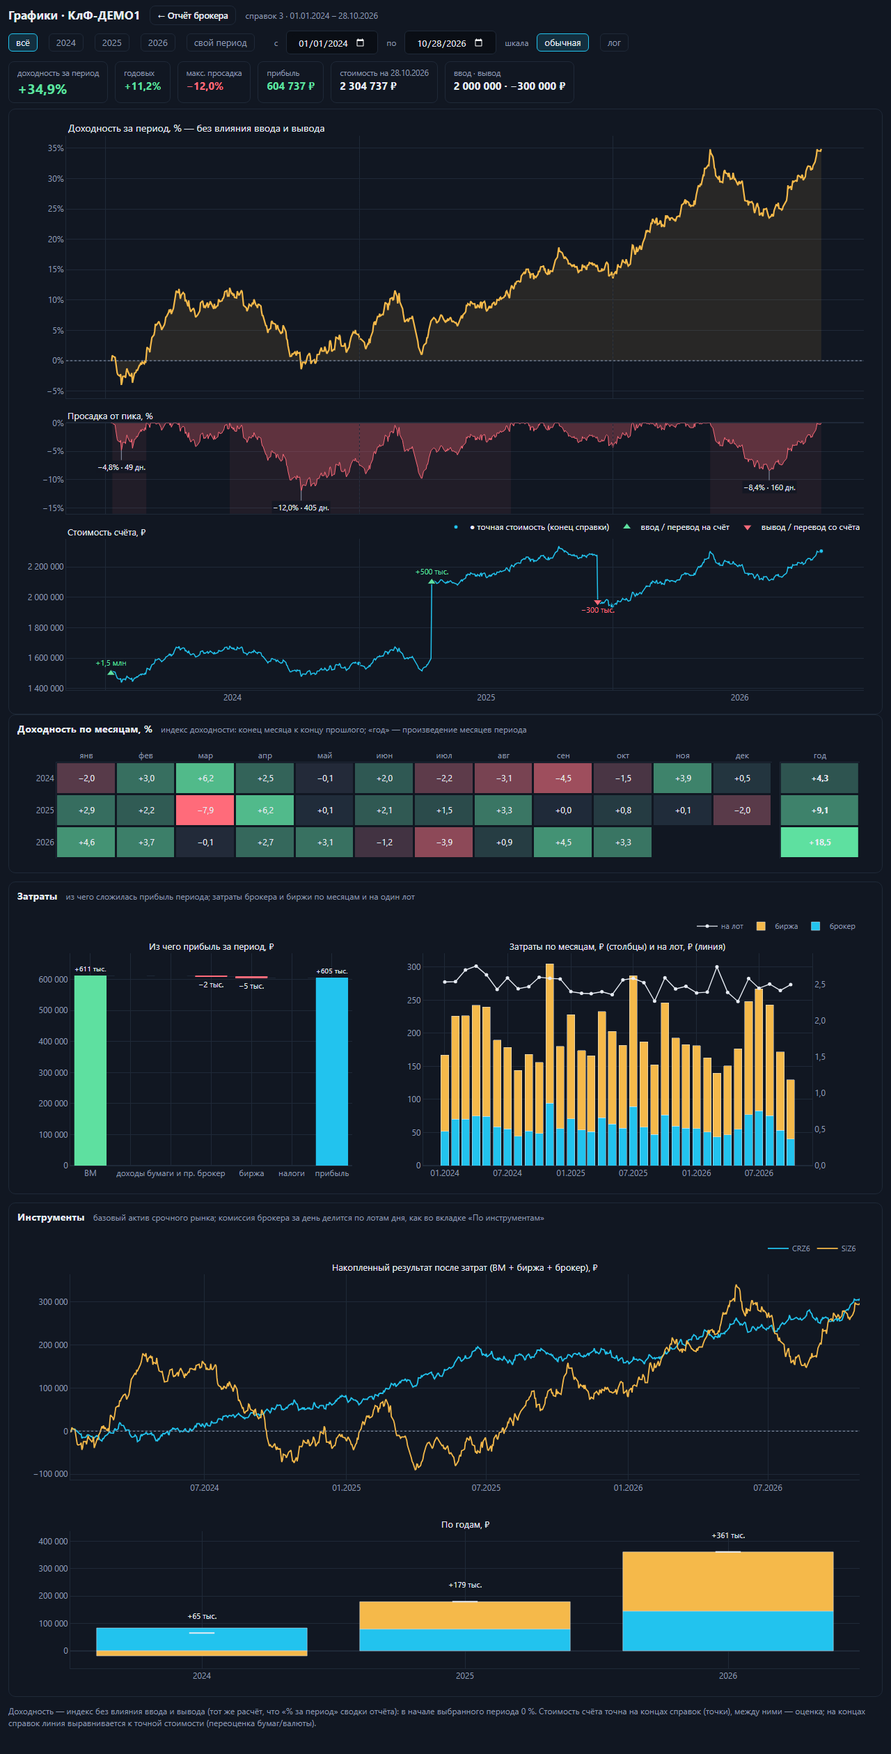
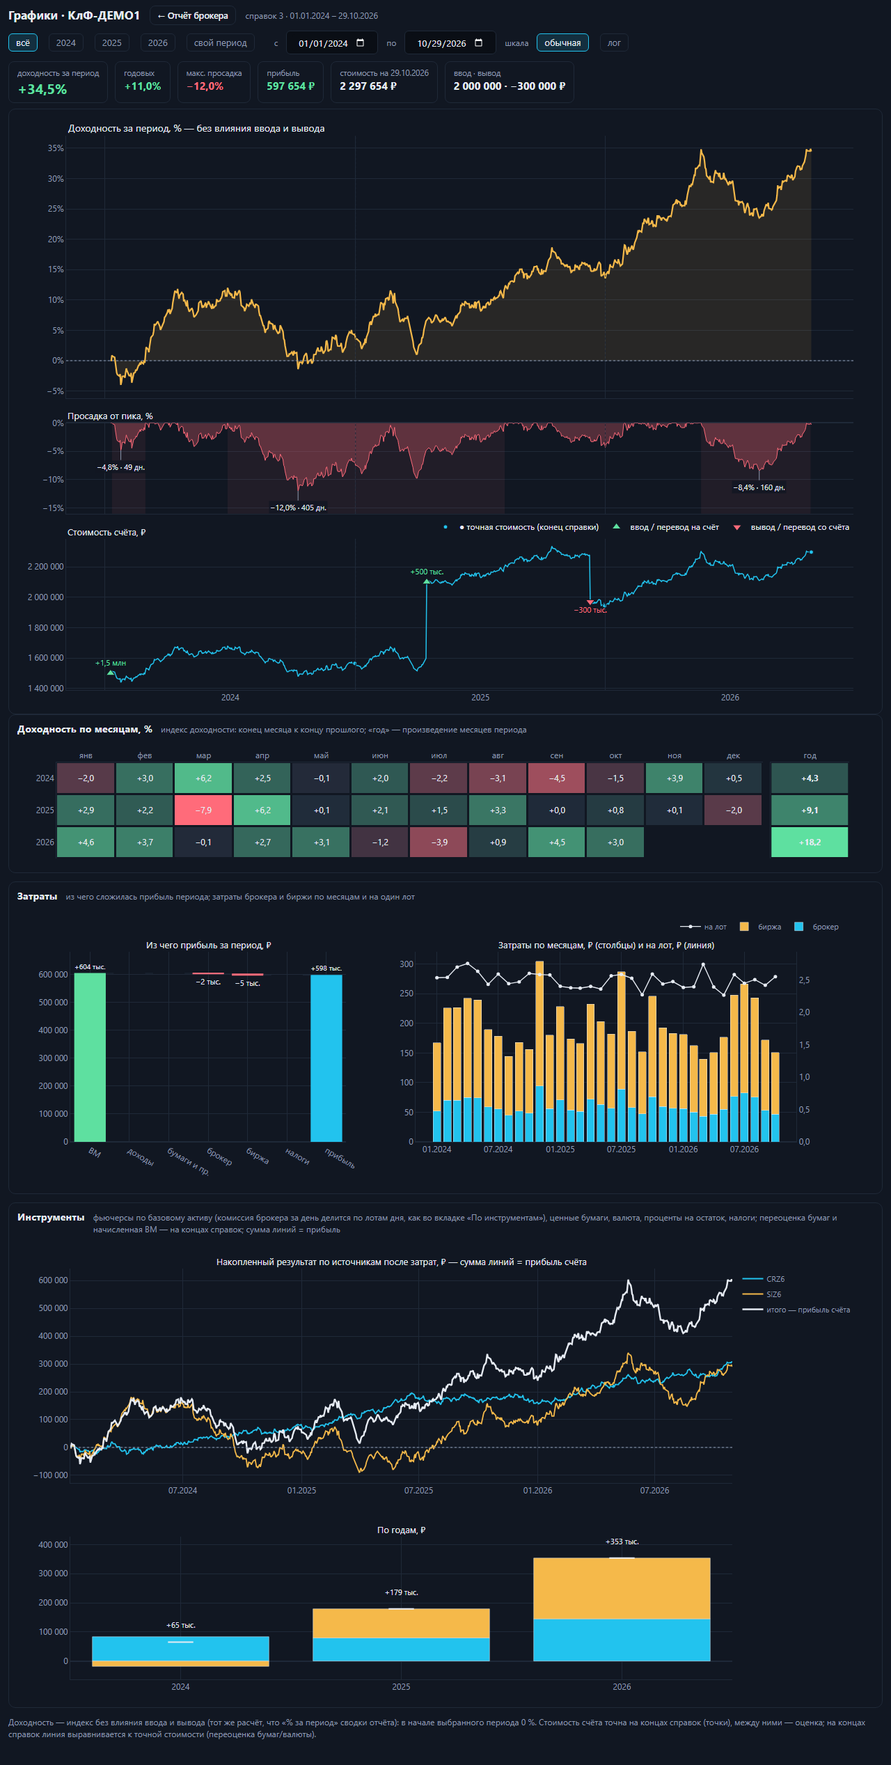
1.0.6: «Графики» → «Инструменты» по источникам (фьючерсы по базовому активу, ценные бумаги, валюта, проценты на остаток, ВМ к оплате, налоги, прочие расходы; итого = прибыль счёта); легенда «Инструментов» столбиком справа, авто-наклон подписей «Из чего прибыль» на узком окне; тест разбивки; скриншот

diff --git a/brep/brep_charts.py b/brep/brep_charts.py
@@ -318,36 +318,50 @@ def fig_costs(acc, s: dict, theme: str = "graphite") -> go.Figure:
     fig.update_yaxes(tickformat=",.0f", row=1, col=2, secondary_y=False)
     fig.update_yaxes(tickformat=",.1f", showgrid=False, rangemode="tozero", tickmode="auto", nticks=6, row=1, col=2,
                      secondary_y=True)
-    fig.update_xaxes(tickangle=0, row=1, col=1)
+    fig.update_xaxes(tickangle=None, row=1, col=1)   # авто: наклон только когда подписи каскада не помещаются (слипались на узком окне)
     fig.update_xaxes(tickformat="%m.%Y", row=1, col=2)
     fig.update_layout(legend=dict(x=1, xanchor="right", y=1.08), margin=dict(t=48))
     return fig
 
 
-def ins_series(acc, s: dict, top: int = 6) -> dict:
-    """Накопленный результат базовых активов после затрат (ВМ + биржа + брокер) по дням периода; крупнейшие top,
-    остальные — «прочие». Корзины столбцов — годы (период > 1 года) или месяцы."""
-    a, b = s["dates"][0], s["dates"][-1]
-    daily = acc.ins_days(a, b, True)
+OTHER_FUT = "прочие фьючерсы"
+TOTAL = "итого — прибыль счёта"
+PART_COLORS = {"Ценные бумаги": "#60a5fa", "Валюта": "#2dd4bf", "Проценты на остаток": "#e879f9",
+               "ВМ к оплате": "#a8a29e", "Налоги": "#f87171", "Прочие расходы": "#78716c"}
+
+
+def ins_series(acc, s: dict, top: int = 5) -> dict:
+    """Накопленный результат по источникам за период:
+    фьючерсы по базовому активу после затрат (крупнейшие top, остальные — «прочие фьючерсы»), ценные бумаги, валюта,
+    проценты на остаток, ВМ к оплате, налоги, прочие расходы (Account.parts_days). Сумма линий = прибыль периода
+    (= плашка «Прибыль»). Корзины столбцов — годы (период > 1 года) или месяцы."""
+    from brep.brep_model import PARTS_FIXED
+    parts = acc.parts_days()
+    dates = s["dates"]
     tot = {}
-    for cv in daily.values():
-        for k, v in cv.items():
-            tot[k] = tot.get(k, 0.0) + sum(v)
-    keys = sorted(tot, key=lambda k: -abs(tot[k]))
-    show = [k for k in keys[:top] if k != "без сделок в день списания"]
-    name = lambda k: k if k in show else OTHER_INS  # noqa: E731
-    names = show + ([OTHER_INS] if any(name(k) == OTHER_INS for k in keys) else [])
-    by_year = len({d[:4] for d in s["dates"]}) > 1
-    cum = {n: [] for n in names}
+    for d in dates:
+        for k, v in parts.get(d, {}).items():
+            tot[k] = tot.get(k, 0.0) + v
+    fut = sorted((k for k in tot if k not in PARTS_FIXED), key=lambda k: -abs(tot[k]))
+    show = [k for k in fut[:top] if k != "без сделок в день списания"]
+    used = {k for d in dates for k, v in parts.get(d, {}).items() if abs(v) >= 0.5}
+    name = lambda k: k if k in show or k in PARTS_FIXED else OTHER_FUT  # noqa: E731
+    names = show + ([OTHER_FUT] if any(name(k) == OTHER_FUT for k in fut if k in used) else [])         + [k for k in PARTS_FIXED if k in used]
+    by_year = len({d[:4] for d in dates}) > 1
+    cum = {n: [] for n in names + [TOTAL]}
     run = {n: 0.0 for n in names}
     buckets = {}
-    for d in s["dates"]:
-        for k, v in daily.get(d, {}).items():
-            run[name(k)] += sum(v)
-            bk = d[:4] if by_year else f"{MON_RU[int(d[5:7]) - 1]} {d[:4]}"
-            buckets.setdefault(bk, {n: 0.0 for n in names})[name(k)] += sum(v)
+    for d in dates:
+        bk = d[:4] if by_year else f"{MON_RU[int(d[5:7]) - 1]} {d[:4]}"
+        bb = buckets.setdefault(bk, {n: 0.0 for n in names})
+        for k, v in parts.get(d, {}).items():
+            n = name(k)
+            if n in run:
+                run[n] += v
+                bb[n] += v
         for n in names:
             cum[n].append(run[n])
+        cum[TOTAL].append(sum(run.values()))
     return {"names": names, "cum": cum, "buckets": buckets, "by_year": by_year, "total": tot}
 
 
@@ -359,17 +373,21 @@ def fig_ins(acc, s: dict, theme: str = "graphite") -> go.Figure:
     if not x["names"]:
         return _layout(go.Figure(), c, 120)
     fig = make_subplots(rows=2, cols=1, row_heights=[0.6, 0.4], vertical_spacing=0.13,
-                        subplot_titles=("Накопленный результат после затрат (ВМ + биржа + брокер), ₽",
+                        subplot_titles=("Накопленный результат по источникам после затрат, ₽ — сумма линий = прибыль счёта",
                                         "По годам, ₽" if x["by_year"] else "По месяцам, ₽"))
     bk = list(x["buckets"])
     for i, n in enumerate(x["names"]):
-        col = c["mut"] if n == OTHER_INS else PALETTE[i % len(PALETTE)]
-        fig.add_trace(go.Scatter(x=s["dates"], y=x["cum"][n], name=n, legendgroup=n, mode="lines", line=dict(color=col, width=1.8),
+        fixed = n in PART_COLORS
+        col = PART_COLORS[n] if fixed else c["mut"] if n == OTHER_FUT else PALETTE[i % len(PALETTE)]
+        fig.add_trace(go.Scatter(x=s["dates"], y=x["cum"][n], name=n, legendgroup=n, mode="lines",
+                                 line=dict(color=col, width=1.8, dash="dash" if fixed else None),
                                  hovertemplate=n + " %{y:,.0f} ₽<extra></extra>"), 1, 1)
         fig.add_trace(go.Bar(x=bk, y=[x["buckets"][b][n] for b in bk], name=n, legendgroup=n, showlegend=False, marker_color=col,
                              hovertemplate=n + " %{x}: %{y:,.0f} ₽<extra></extra>"), 2, 1)
+    fig.add_trace(go.Scatter(x=s["dates"], y=x["cum"][TOTAL], name=TOTAL, legendgroup=TOTAL, mode="lines",
+                             line=dict(color=c["txt"], width=2.4), hovertemplate="итого %{y:,.0f} ₽<extra></extra>"), 1, 1)
     tots = [sum(x["buckets"][b].values()) for b in bk]
-    fig.add_trace(go.Scatter(x=bk, y=tots, mode="markers+text", name="итого", showlegend=False,
+    fig.add_trace(go.Scatter(x=bk, y=tots, mode="markers+text", name="итого", showlegend=False, legendgroup=TOTAL,
                              marker=dict(symbol="line-ew", size=26, line=dict(color=c["txt"], width=2)),
                              text=[short(v) if abs(v) >= 1000 else "" for v in tots], textposition="top center",
                              textfont=dict(color=c["txt"], size=11), hovertemplate="итого %{x}: %{y:,.0f} ₽<extra></extra>"), 2, 1)
@@ -383,7 +401,10 @@ def fig_ins(acc, s: dict, theme: str = "graphite") -> go.Figure:
     fig.update_yaxes(tickformat=",.0f")
     fig.update_xaxes(tickformat="%m.%Y", row=1, col=1)
     fig.update_xaxes(type="category", row=2, col=1)
-    fig.update_layout(legend=dict(x=1, xanchor="right", y=1.04), margin=dict(t=48))
+    # легенда столбиком справа: горизонтальная при 10+ линиях переносилась в 2–3 ряда и легла на
+    # заголовок подграфика — Plotly недодал верхнее поле; справа ей не с чем пересечься при любой ширине и масштабе
+    fig.update_layout(legend=dict(orientation="v", x=1.01, xanchor="left", y=1, yanchor="top", tracegroupgap=3),
+                      margin=dict(t=40))
     return fig
 
 
@@ -447,8 +468,9 @@ def mount(server, url_base: str, account: str, store, report_url: str):
             ("Доходность по месяцам, %", "индекс доходности: конец месяца к концу прошлого; «год» — произведение месяцев периода",
              "c-months"),
             ("Затраты", "из чего сложилась прибыль периода; затраты брокера и биржи по месяцам и на один лот", "c-costs"),
-            ("Инструменты", "базовый актив срочного рынка; комиссия брокера за день делится по лотам дня, как во вкладке "
-                            "«По инструментам»", "c-ins"))],
+            ("Инструменты", "фьючерсы по базовому активу (комиссия брокера за день делится по лотам дня, как во "
+                            "вкладке «По инструментам»), ценные бумаги, валюта, проценты на остаток, налоги; переоценка "
+                            "бумаг и начисленная ВМ — на концах справок; сумма линий = прибыль", "c-ins"))],
         html.P("Доходность — индекс без влияния ввода и вывода (тот же расчёт, что «% за период» сводки отчёта): в начале "
                "выбранного периода 0 %. Стоимость счёта точна на концах справок (точки), между ними — оценка; на концах "
                "справок линия выравнивается к точной стоимости (переоценка бумаг/валюты).", className="hint"),

diff --git a/brep/brep_model.py b/brep/brep_model.py
@@ -634,6 +634,75 @@ Account._papers_init = _papers_init
 Account.securities = _securities
 
 
+# ── результат по источникам (окно «Графики», блок «Инструменты») ──
+PART_SEC, PART_FX, PART_INT = "Ценные бумаги", "Валюта", "Проценты на остаток"
+PART_REQ, PART_TAX, PART_ETC = "ВМ к оплате", "Налоги", "Прочие расходы"
+PARTS_FIXED = (PART_SEC, PART_FX, PART_INT, PART_REQ, PART_TAX, PART_ETC)
+
+
+def _parts_days(self) -> dict:
+    """{дата строки days: {источник: ₽}} за всю историю (считается один раз на объект счёта).
+    Сумма источников дня = прибыль дня по кривой стоимости (Δстоимости − ввод/вывод/переводы), поэтому за любой период
+    сумма = прибыль плашек и сводки. Источники:
+      • фьючерсы по базовому активу — ВМ оплаченная + биржа + брокер по лотам дня (как ins_days / «По инструментам»);
+      • ценные бумаги — купоны, депозитарий за выплату, комиссии по бумагам днём оплаты; переоценка и торговля (оценка
+        конца − начала + продажи + погашения − покупки) — на конце справки, где известна точная оценка (как «Ценные бумаги»);
+      • валюта — на конце справки; проценты брокера на остаток и налоги — днём оплаты;
+      • ВМ к оплате — Δ «оценки требований и обязательств» между концами справок (начислена клирингом, деньгами придёт
+        позже — тогда перейдёт в линию инструмента; сводка учитывает её в ВМ);
+      • прочие расходы — комиссии брокера вне сделок, депозитарий, «прочее» и остаток до прибыли дня (self.parts_gap —
+        наибольший остаток в день БЕЗ конца справки: должен быть ≈ 0)."""
+    if getattr(self, "_parts", None) is not None:
+        return self._parts
+    out = defaultdict(lambda: defaultdict(float))
+    self.parts_gap = 0.0
+    if not self.days or not self.points:
+        self._parts = out
+        return out
+    fut = self.ins_days("0000-00-00", "9999-99-99", True)
+    sec_day = defaultdict(float)
+    depo_pay = defaultdict(float)
+    for d, _i, k, amt in self.p_cash:
+        if k == bp.KIND_REDEEM:                                 # номинал — не доход: в переоценке на конце справки
+            continue
+        sec_day[d] += amt
+        if k == bp.KIND_DEPO:
+            depo_pay[d] += amt
+    for d, v in self.p_comm.items():
+        sec_day[d] += v
+    last_pt, prev = self.points[0]
+    for r in self.days:
+        d = r["date"]
+        k = self.kind.get(d, {})
+        o = out[d]
+        for c, v in fut.get(d, {}).items():
+            o[c] += sum(v)
+        o[PART_SEC] += sec_day.get(d, 0.0)
+        o[PART_INT] += k.get(bp.KIND_INTEREST, 0.0)
+        o[PART_TAX] += k.get(bp.KIND_TAX, 0.0)
+        o[PART_ETC] += (k.get(bp.KIND_BROKER, 0.0) - self.broker_pfi.get(d, 0.0) - self.p_comm.get(d, 0.0)
+                        + k.get(bp.KIND_DEPO, 0.0) - depo_pay.get(d, 0.0) + k.get(bp.KIND_OTHER, 0.0))
+        if r.get("exact") and d > last_pt:
+            o[PART_REQ] += self.req.get(d, 0.0) - self.req.get(last_pt, 0.0)
+            sec = self.securities(bp.day_after(last_pt), d)
+            if sec:
+                o[PART_SEC] += sum(x["result"] - x["inc"] - x["depo"] - x["comm"] for x in sec["rows"])
+                o[PART_FX] += sec["fx"]["result"] if sec["fx"] else 0.0
+        flow = (r.get("dep") or 0.0) + (r.get("wd") or 0.0) + (r.get("tr") or 0.0)
+        gap = r["equity"] - prev - flow - sum(o.values())
+        o[PART_ETC] += gap
+        if not r.get("exact"):
+            self.parts_gap = max(self.parts_gap, abs(gap))
+        prev = r["equity"]
+        if r.get("exact"):
+            last_pt = d
+    self._parts = out
+    return out
+
+
+Account.parts_days = _parts_days
+
+
 class Store:
     """Счёт окна: пересобирается, когда в каталоге справок что-то изменилось (новая справка, замена)."""
 

diff --git a/tests/test_brep_charts.py b/tests/test_brep_charts.py
@@ -12,6 +12,8 @@ from brep import brep_charts as bc, brep_model as bm, brep_parse as bp  # noqa: 
 def _acc(points, days, kind=None):
     a = bm.Account.__new__(bm.Account)
     a.points, a.kind, a.req, a.lots = points, kind or {}, {}, {}
+    bm._papers_init(a, [])                                       # бумаг нет: блок «Инструменты» считает и их
+    a.broker_pfi = {}
     a.days = [dict(dict(go=0.0, go_pct=None, tax=0.0, dep=0.0, wd=0.0, tr=0.0, exact=False, result=0.0), **d) for d in days]
     a.first, a.last = a.days[0]["date"], a.days[-1]["date"]
     return a
@@ -107,4 +109,10 @@ def test_ins_days_equal_instruments():
     assert tot == pytest.approx({r["instr"]: r["net"] for r in a.instruments("2024-01-01", "2024-12-31", True)})
     x = bc.ins_series(a, bc.series(a))
     assert x["cum"]["Si"][-1] == pytest.approx(100 - 3 - 6 + 10) and x["by_year"] is False
+    # «Инструменты» — по источникам: фьючерсы по базовому активу + прочее; итого = прибыль периода
+    # (75 − 100 + вывод 100 = 75), остаток вне фьючерсов — в «прочих расходах»
+    assert x["cum"]["CNY"][-1] == pytest.approx(-40 - 1 - 2)
+    assert x["cum"][bc.TOTAL][-1] == pytest.approx(75.0)
+    assert x["cum"][bc.TOTAL][-1] == pytest.approx(sum(v[-1] for k, v in x["cum"].items() if k != bc.TOTAL))
+    assert bc.fig_ins(a, bc.series(a)).data                       # график строится
 

diff --git a/app.py b/app.py
@@ -25,7 +25,7 @@ import webbrowser
 from flask import Flask, abort, jsonify, redirect, request
 
 APP = "BrokerReport"
-VERSION = "1.0.5"
+VERSION = "1.0.6"
 HERE = os.path.dirname(os.path.abspath(__file__))
 sys.path.insert(0, HERE)
 

diff --git a/CHANGELOG.md b/CHANGELOG.md
@@ -2,6 +2,18 @@
 
 Формат — [Keep a Changelog](https://keepachangelog.com/ru/1.1.0/), версии — [SemVer](https://semver.org/lang/ru/).
 
+## [1.0.6] — 2026-10-30
+
+### Изменено
+- Окно «Графики», блок «Инструменты»: результат по всем источникам, а не только по фьючерсам. Линии — пять
+  крупнейших фьючерсов по базовому активу и «прочие фьючерсы», ценные бумаги (купоны — днём выплаты, переоценка
+  и торговля — на концах справок), валюта, проценты на остаток, ВМ к оплате, налоги, прочие расходы и жирная
+  линия «итого», равная прибыли счёта. Столбцы по годам и месяцам разбиты так же.
+
+### Исправлено
+- Окно «Графики»: легенда «Инструментов» стоит столбиком справа и больше не ложится на заголовок графика на
+  узком окне; подписи столбиков «Из чего прибыль» наклоняются, только когда не помещаются.
+
 ## [1.0.5] — 2026-10-29
 
 ### Изменено

diff --git a/README.md b/README.md
@@ -33,7 +33,8 @@
 
 Окно «Графики» (кнопка «Графики ↗» у счёта): доходность без влияния ввода и вывода, просадка, стоимость счёта
 с отметками ввода и вывода, доходность по месяцам, из чего сложилась прибыль, затраты по месяцам и на лот,
-результат по инструментам. Период выбирается кнопками годов или датами, шкала — обычная или логарифмическая.
+результат по источникам (фьючерсы, ценные бумаги, валюта, проценты на остаток, налоги, прочее; сумма линий =
+прибыль счёта). Период выбирается кнопками годов или датами, шкала — обычная или логарифмическая.
 
 ![Графики](docs/screenshots/charts.png)
 
